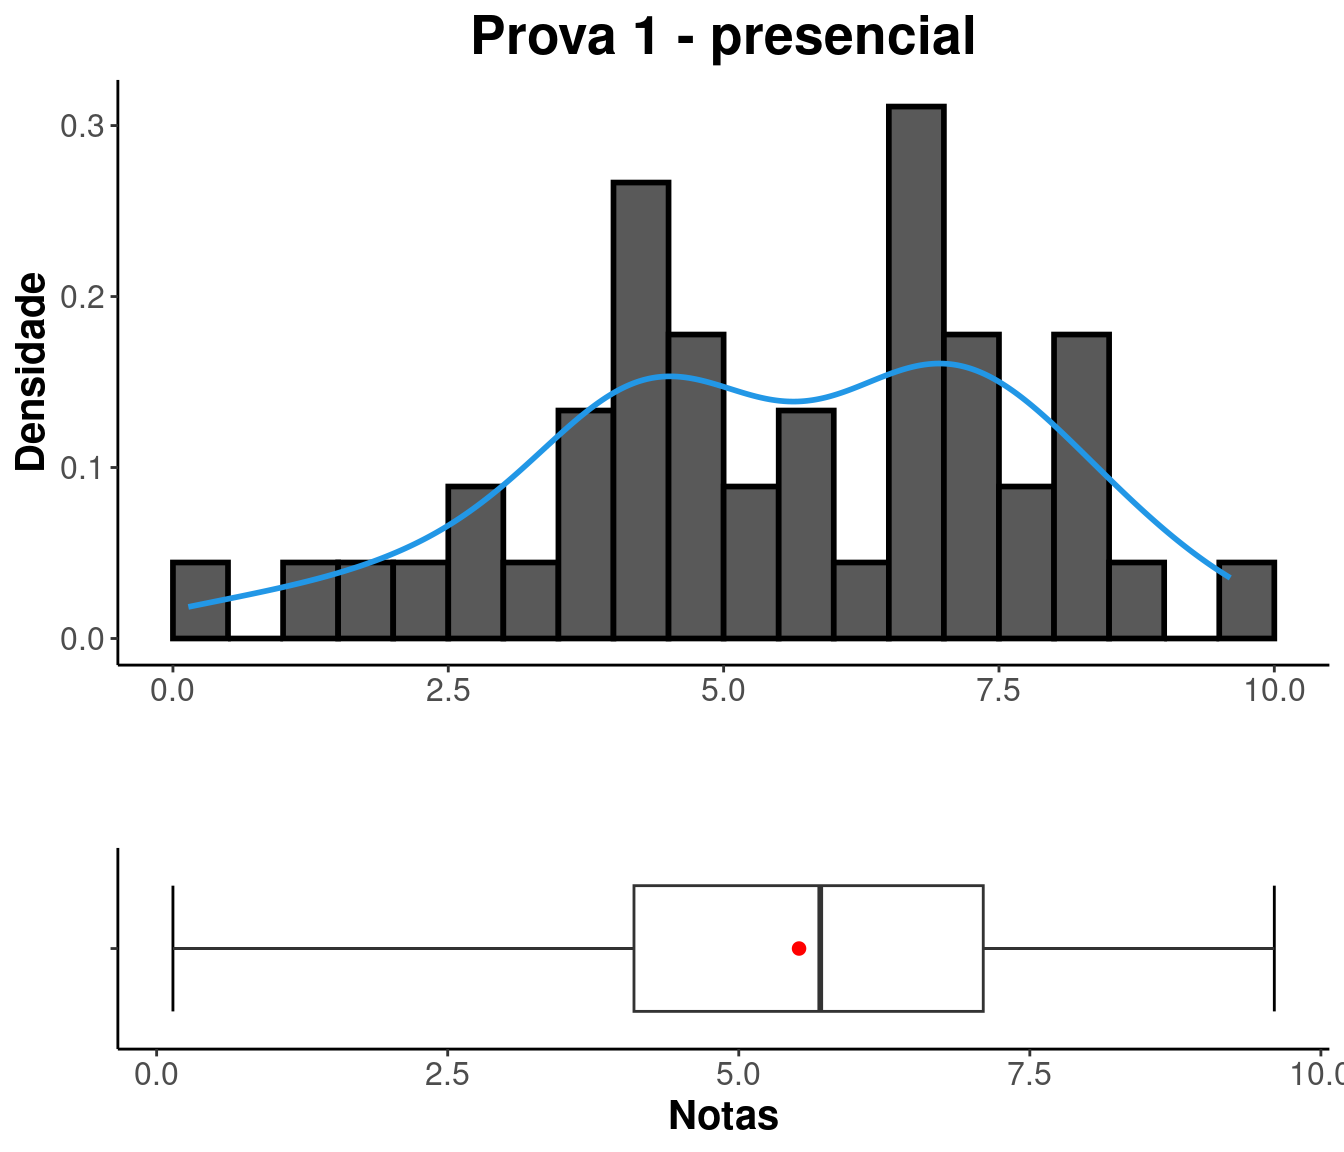
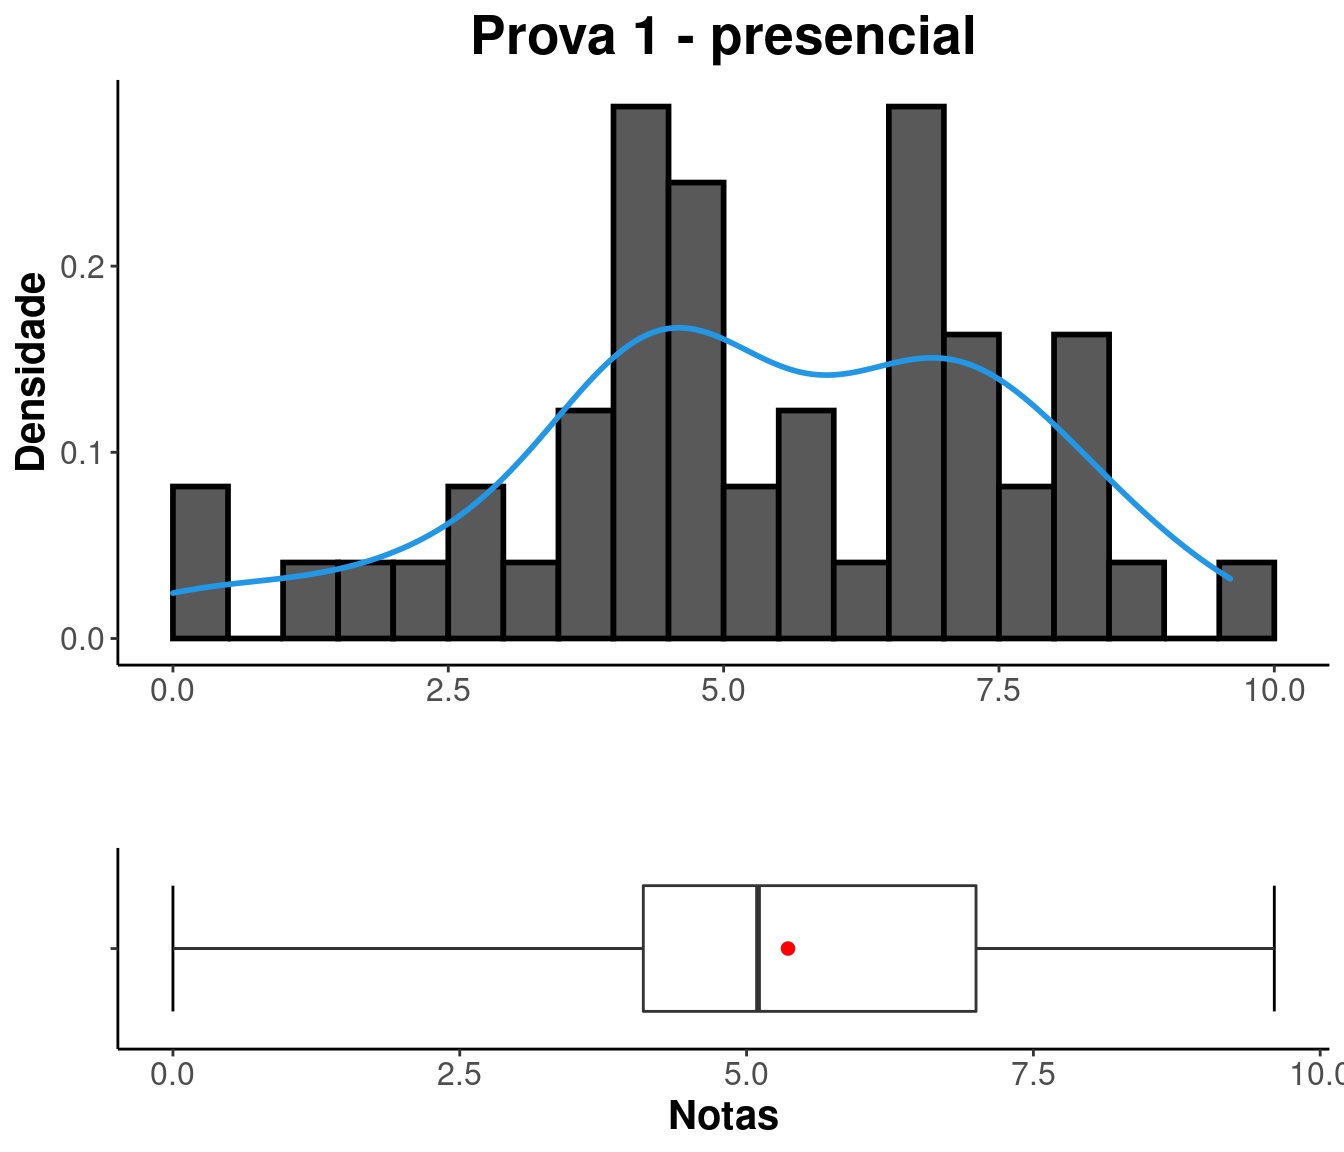
atualiza notas

diff --git a/index.html b/index.html
@@ -13,7 +13,7 @@
 
 <title>Estatística Básica</title>
 
-<script src="site_libs/header-attrs-2.21/header-attrs.js"></script>
+<script src="site_libs/header-attrs-2.14/header-attrs.js"></script>
 <script src="site_libs/jquery-3.6.0/jquery-3.6.0.min.js"></script>
 <meta name="viewport" content="width=device-width, initial-scale=1" />
 <link href="site_libs/bootstrap-3.3.5/css/yeti.min.css" rel="stylesheet" />
@@ -30,16 +30,16 @@
        code {color: inherit; background-color: rgba(0, 0, 0, 0.04);}
        pre:not([class]) { background-color: white }</style>
 <script src="site_libs/navigation-1.1/tabsets.js"></script>
-<script src="site_libs/htmlwidgets-1.6.2/htmlwidgets.js"></script>
+<script src="site_libs/htmlwidgets-1.5.4/htmlwidgets.js"></script>
 <link href="site_libs/datatables-css-0.0.0/datatables-crosstalk.css" rel="stylesheet" />
-<script src="site_libs/datatables-binding-0.28/datatables.js"></script>
-<link href="site_libs/dt-core-1.13.4/css/jquery.dataTables.min.css" rel="stylesheet" />
-<link href="site_libs/dt-core-1.13.4/css/jquery.dataTables.extra.css" rel="stylesheet" />
-<script src="site_libs/dt-core-1.13.4/js/jquery.dataTables.min.js"></script>
+<script src="site_libs/datatables-binding-0.27/datatables.js"></script>
+<link href="site_libs/dt-core-1.12.1/css/jquery.dataTables.min.css" rel="stylesheet" />
+<link href="site_libs/dt-core-1.12.1/css/jquery.dataTables.extra.css" rel="stylesheet" />
+<script src="site_libs/dt-core-1.12.1/js/jquery.dataTables.min.js"></script>
 <link href="site_libs/crosstalk-1.2.0/css/crosstalk.min.css" rel="stylesheet" />
 <script src="site_libs/crosstalk-1.2.0/js/crosstalk.min.js"></script>
-<link href="site_libs/font-awesome-6.4.0/css/all.min.css" rel="stylesheet" />
-<link href="site_libs/font-awesome-6.4.0/css/v4-shims.min.css" rel="stylesheet" />
+<link href="site_libs/font-awesome-5.1.0/css/all.css" rel="stylesheet" />
+<link href="site_libs/font-awesome-5.1.0/css/v4-shims.css" rel="stylesheet" />
 
 <style type="text/css">
   code{white-space: pre-wrap;}
@@ -139,15 +139,11 @@ $(document).ready(function () {
     href = "index.html";
   var menuAnchor = $('a[href="' + href + '"]');
 
-  // mark the anchor link active (and if it's in a dropdown, also mark that active)
-  var dropdown = menuAnchor.closest('li.dropdown');
-  if (window.bootstrap) { // Bootstrap 4+
-    menuAnchor.addClass('active');
-    dropdown.find('> .dropdown-toggle').addClass('active');
-  } else { // Bootstrap 3
-    menuAnchor.parent().addClass('active');
-    dropdown.addClass('active');
-  }
+  // mark it active
+  menuAnchor.tab('show');
+
+  // if it's got a parent navbar menu mark it active as well
+  menuAnchor.closest('li.dropdown').addClass('active');
 
   // Navbar adjustments
   var navHeight = $(".navbar").first().height() + 15;
@@ -176,8 +172,8 @@ $(document).ready(function () {
   border-radius: 4px;
 }
 
-.tabset-dropdown > .nav-tabs > li.active:before, .tabset-dropdown > .nav-tabs.nav-tabs-open:before {
-  content: "\e259";
+.tabset-dropdown > .nav-tabs > li.active:before {
+  content: "";
   font-family: 'Glyphicons Halflings';
   display: inline-block;
   padding: 10px;
@@ -185,9 +181,16 @@ $(document).ready(function () {
 }
 
 .tabset-dropdown > .nav-tabs.nav-tabs-open > li.active:before {
-  content: "\e258";
-  font-family: 'Glyphicons Halflings';
+  content: "&#xe258;";
   border: none;
+}
+
+.tabset-dropdown > .nav-tabs.nav-tabs-open:before {
+  content: "";
+  font-family: 'Glyphicons Halflings';
+  display: inline-block;
+  padding: 10px;
+  border-right: 1px solid #ddd;
 }
 
 .tabset-dropdown > .nav-tabs > li.active {
@@ -294,8 +297,8 @@ Prof. Dr. Paulo Justiniano Ribeiro Jr</div></h3>
 <p>Busque sua situação digitando seu GRR na caixa “Search”.</p>
 <p><br />
 </p>
-<div class="datatables html-widget html-fill-item-overflow-hidden html-fill-item" id="htmlwidget-ba8b7cc69b072bf90399" style="width:100%;height:auto;"></div>
-<script type="application/json" data-for="htmlwidget-ba8b7cc69b072bf90399">{"x":{"filter":"none","vertical":false,"editable":{"target":"cell","disable":{"columns":null},"numeric":[1,2,3],"date":[]},"data":[["GRR20233873","GRR20233878","GRR20235311","GRR20233903","GRR20207013","GRR20222224","GRR20235317","GRR20233909","GRR20190496","GRR20214497","GRR20222245","GRR20233897","GRR20222227","GRR20185627","GRR20222232","GRR20207043","GRR20233916","GRR20233879","GRR20235315","GRR20233892","GRR20233896","GRR20233912","GRR20233907","GRR20222264","GRR20233886","GRR20222240","GRR20207109","GRR20235501","GRR20235312","GRR20233900","GRR20233913","GRR20233906","GRR20222229","GRR20212996","GRR20233875","GRR20213013","GRR20233876","GRR20233902","GRR20233895","GRR20233908","GRR20207143","GRR20207149","GRR20233885","GRR20233904","GRR20233910","GRR20233917","GRR20233911","GRR20233901","GRR20233893","GRR20233882","GRR20222254","GRR20233884","GRR20222235","GRR20235733","GRR20233881","GRR20234437","GRR20233877","GRR20233888","GRR20233883","GRR20235505","GRR20233905","GRR20233890","GRR20233874","GRR20233899","GRR20233891"],[null,1.06,8.3,6.9,null,4,6.7,7.3,2.8,null,3.2,7.6,null,null,null,null,6.5,4.7,7.1,4.6,0.14,7.2,8.9,4.8,null,null,4.4,4.8,6,2.2,null,8.1,null,null,null,null,9.6,4.1,3.8,null,4.1,null,8.5,6.7,7,4.3,7.3,3.8,5.7,7,null,1.8,null,null,8.2,6.7,7.9,6,4.4,2.9,5.1,4.3,null,5.1,6.7],[5.4,0.2,10,10,null,8.6,0,8.9,0,null,2,10,null,null,null,null,9.2,8.3,9.8,9,0,10,10,6.5,null,null,8.3,7.9,7.9,0,null,9.4,null,null,null,null,10,9.7,8.6,null,3.6,null,9.8,8.1,8.2,9.6,0,8.5,10,9.3,null,8.9,null,7.1,9.9,9.9,9.8,10,6.2,9.2,9.1,7.7,9.7,9.2,9.8],[1.08,0.888,8.64,7.52,null,4.92,5.36,7.62,2.24,null,2.96,8.08,null,null,null,null,7.04,5.42,7.64,5.48,0.112,7.76,9.12,5.14,null,null,5.18,5.42,6.38,1.76,null,8.36,null,null,null,null,9.68,5.22,4.76,null,4,null,8.76,6.98,7.24,5.36,5.84,4.74,6.56,7.46,null,3.22,null,1.42,8.54,7.34,8.28,6.8,4.76,4.16,5.9,4.98,1.94,5.92,7.32]],"container":"<table class=\"cell-border stripe\">\n  <thead>\n    <tr>\n      <th>GRR<\/th>\n      <th>P1.presencial<\/th>\n      <th>P1.remota<\/th>\n      <th>P1<\/th>\n    <\/tr>\n  <\/thead>\n<\/table>","options":{"columnDefs":[{"className":"dt-right","targets":[1,2,3]}],"order":[],"autoWidth":false,"orderClasses":false}},"evals":[],"jsHooks":[]}</script>
+<div id="htmlwidget-9ee824bd49a6f394534d" style="width:100%;height:auto;" class="datatables html-widget"></div>
+<script type="application/json" data-for="htmlwidget-9ee824bd49a6f394534d">{"x":{"filter":"none","vertical":false,"editable":{"target":"cell","disable":{"columns":null},"numeric":[1,2,3],"area":[]},"data":[["GRR20233873","GRR20233878","GRR20235311","GRR20233903","GRR20207013","GRR20222224","GRR20235317","GRR20233909","GRR20190496","GRR20214497","GRR20222245","GRR20233897","GRR20222227","GRR20185627","GRR20222232","GRR20207043","GRR20233916","GRR20233879","GRR20235315","GRR20233892","GRR20233896","GRR20233912","GRR20233907","GRR20222264","GRR20233886","GRR20222240","GRR20207109","GRR20235501","GRR20235312","GRR20233900","GRR20233913","GRR20233906","GRR20222229","GRR20212996","GRR20233875","GRR20213013","GRR20233876","GRR20233902","GRR20233895","GRR20233908","GRR20207143","GRR20207149","GRR20233885","GRR20233904","GRR20233910","GRR20233917","GRR20233911","GRR20233901","GRR20233893","GRR20233882","GRR20222254","GRR20233884","GRR20222235","GRR20235733","GRR20233881","GRR20234437","GRR20233877","GRR20233888","GRR20233883","GRR20235505","GRR20233905","GRR20233890","GRR20233874","GRR20233899","GRR20233891"],[0,1.06,8.3,6.9,null,4,6.7,7.3,2.8,null,3.2,7.6,null,null,null,null,6.5,4.7,7.1,4.6,0.14,7.2,8.9,4.8,null,4.4,4.4,4.8,6,2.2,null,8.1,null,null,null,null,9.6,4.1,3.8,null,4.1,null,8.5,6.7,7,4.3,7.3,3.8,5.7,7,null,1.8,null,5,8.2,6.7,7.9,6,4.4,2.9,5.1,4.3,5,5.1,6.7],[5.4,0.2,10,10,null,8.6,0,8.9,0,null,2,10,null,null,null,null,9.2,8.3,9.8,9,0,10,10,6.5,null,0,8.3,7.9,7.9,0,null,9.4,null,null,null,null,10,9.7,8.6,null,3.6,null,9.8,8.1,8.2,9.6,0,8.5,10,9.3,null,8.9,null,7.1,9.9,9.9,9.8,10,6.2,9.2,9.1,7.7,9.7,9.2,9.8],[1.08,0.888,8.64,7.52,null,4.92,5.36,7.62,2.24,null,2.96,8.08,null,null,null,null,7.04,5.42,7.64,5.48,112,7.76,9.12,5.14,null,3.52,5.18,5.42,6.38,1.76,null,8.36,null,null,null,null,9.68,5.22,4.76,null,4,null,8.76,6.98,7.24,5.36,5.84,4.74,6.56,7.46,null,3.22,null,5.42,8.54,7.34,8.28,6.8,4.76,4.16,5.9,4.98,5.94,5.92,7.32]],"container":"<table class=\"cell-border stripe\">\n  <thead>\n    <tr>\n      <th>GRR<\/th>\n      <th>P1.presencial<\/th>\n      <th>P1.remota<\/th>\n      <th>P1<\/th>\n    <\/tr>\n  <\/thead>\n<\/table>","options":{"columnDefs":[{"className":"dt-right","targets":[1,2,3]}],"order":[],"autoWidth":false,"orderClasses":false}},"evals":[],"jsHooks":[]}</script>
 <hr />
 </div>
 <div id="análise-das-notas"
@@ -325,11 +328,11 @@ class="section level1 tabset tabset-fade tabset-pills">
 </thead>
 <tbody>
 <tr class="odd">
-<td align="center">0.14</td>
+<td align="center">0</td>
 <td align="center">4.1</td>
-<td align="center">5.518</td>
-<td align="center">5.7</td>
-<td align="center">7.1</td>
+<td align="center">5.361</td>
+<td align="center">5.1</td>
+<td align="center">7</td>
 <td align="center">9.6</td>
 </tr>
 </tbody>
@@ -363,9 +366,9 @@ class="section level1 tabset tabset-fade tabset-pills">
 <tbody>
 <tr class="odd">
 <td align="center">0</td>
-<td align="center">7.55</td>
-<td align="center">7.569</td>
-<td align="center">8.95</td>
+<td align="center">7.1</td>
+<td align="center">7.414</td>
+<td align="center">8.9</td>
 <td align="center">9.8</td>
 <td align="center">10</td>
 </tr>
@@ -399,12 +402,12 @@ class="section level1 tabset tabset-fade tabset-pills">
 </thead>
 <tbody>
 <tr class="odd">
-<td align="center">0.112</td>
-<td align="center">4.755</td>
-<td align="center">5.652</td>
-<td align="center">5.66</td>
-<td align="center">7.475</td>
-<td align="center">9.68</td>
+<td align="center">0.888</td>
+<td align="center">4.92</td>
+<td align="center">8.055</td>
+<td align="center">5.9</td>
+<td align="center">7.52</td>
+<td align="center">112</td>
 </tr>
 </tbody>
 </table>
